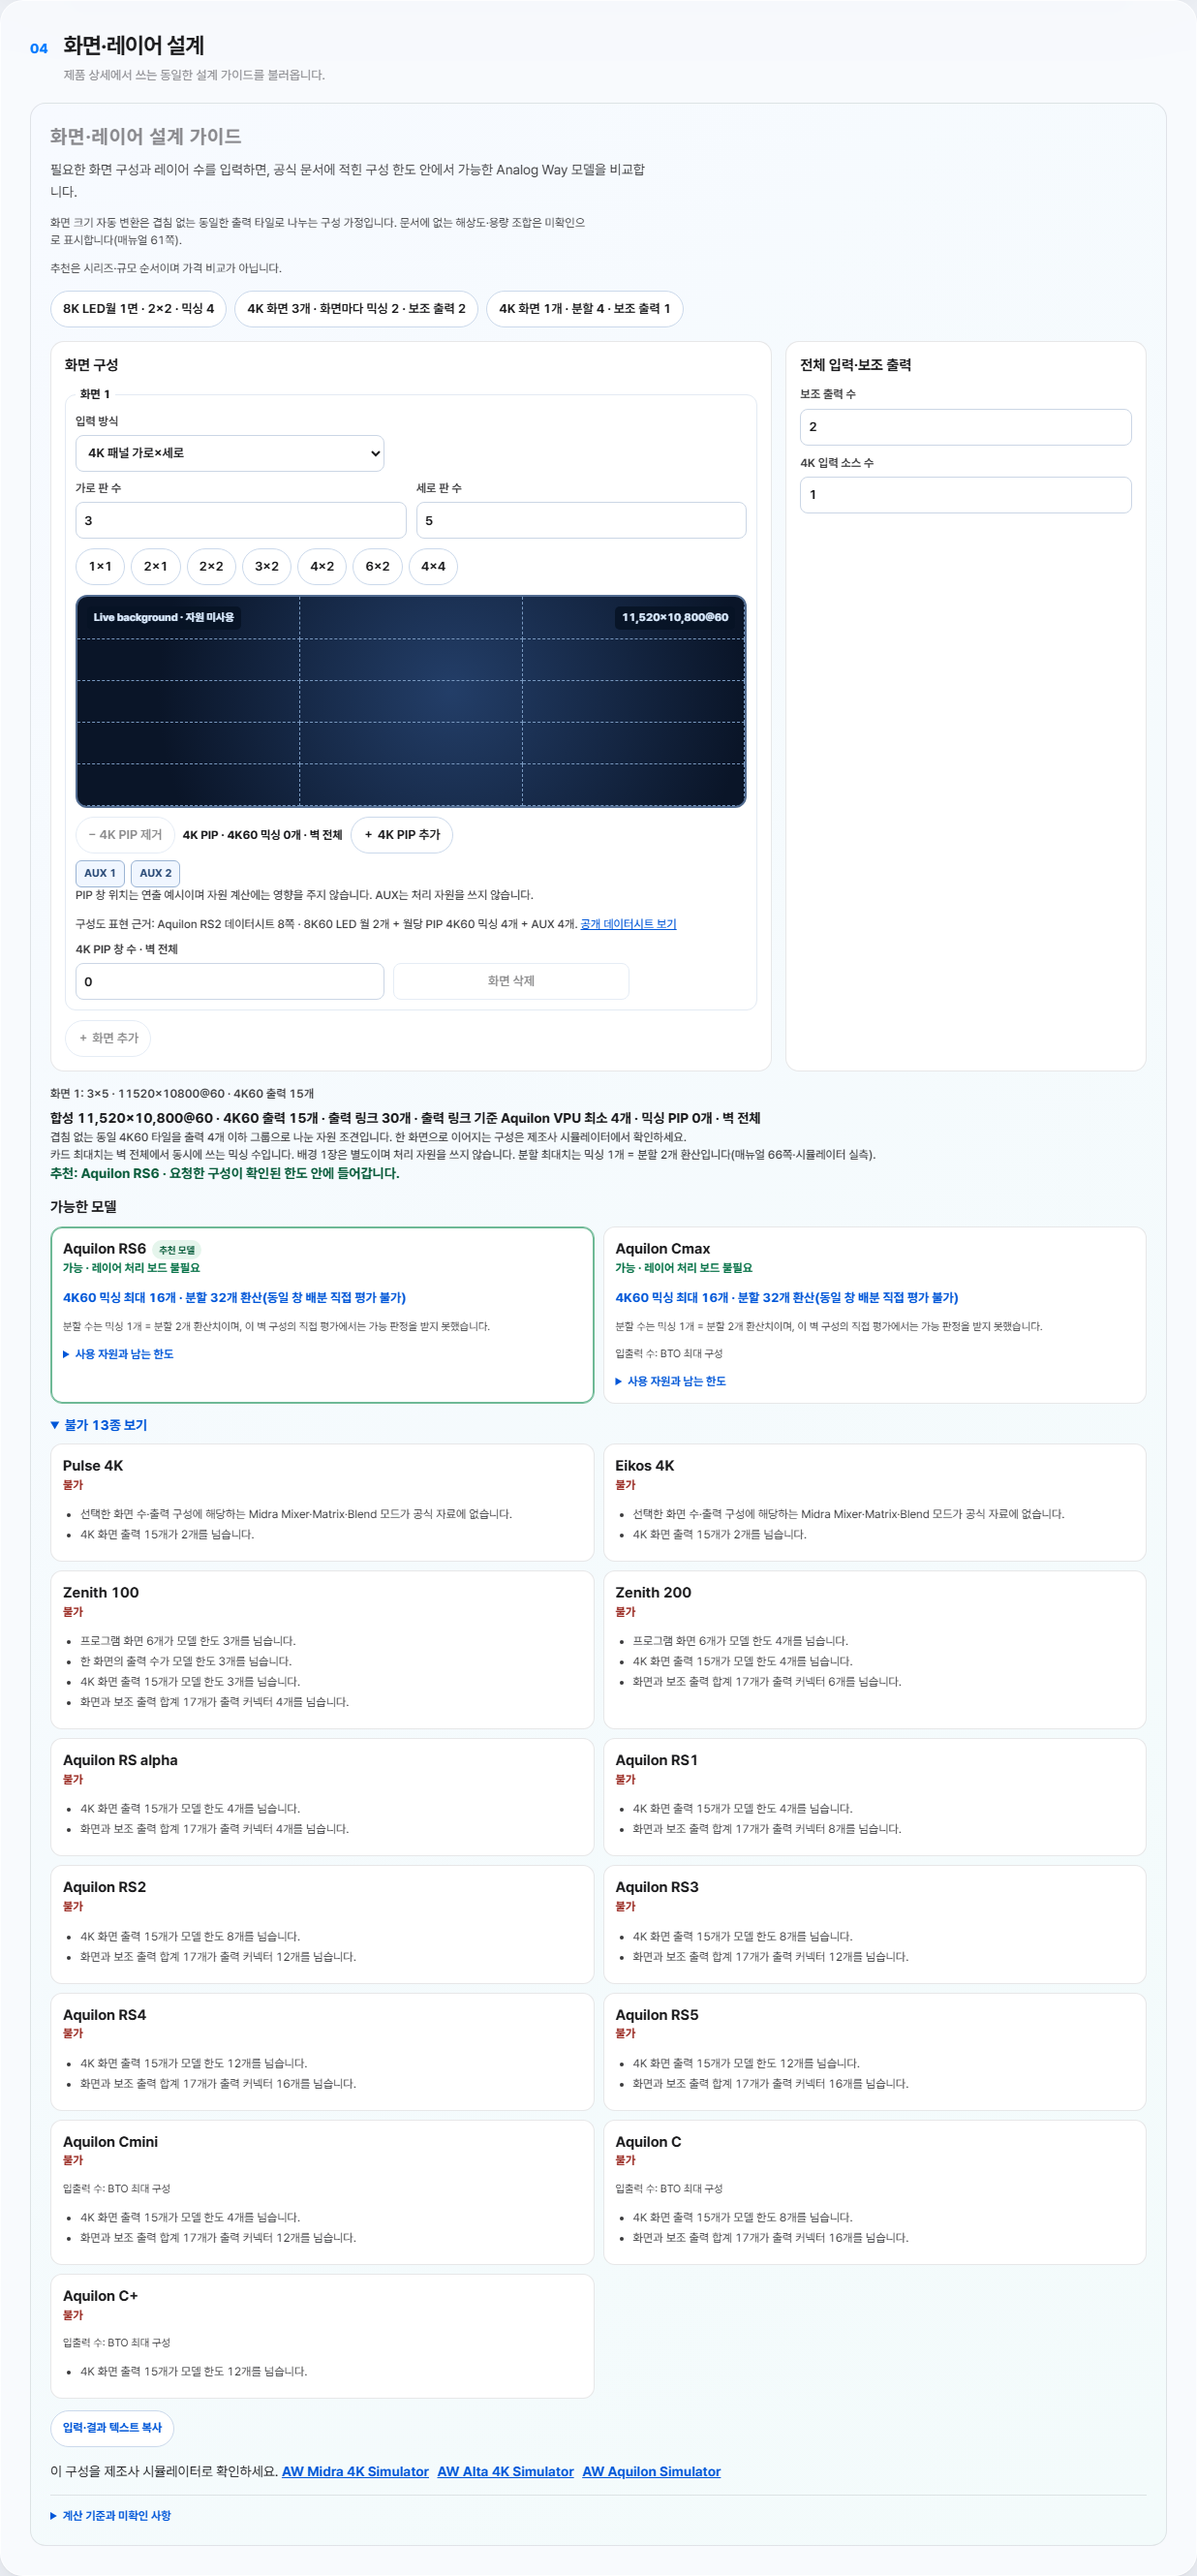
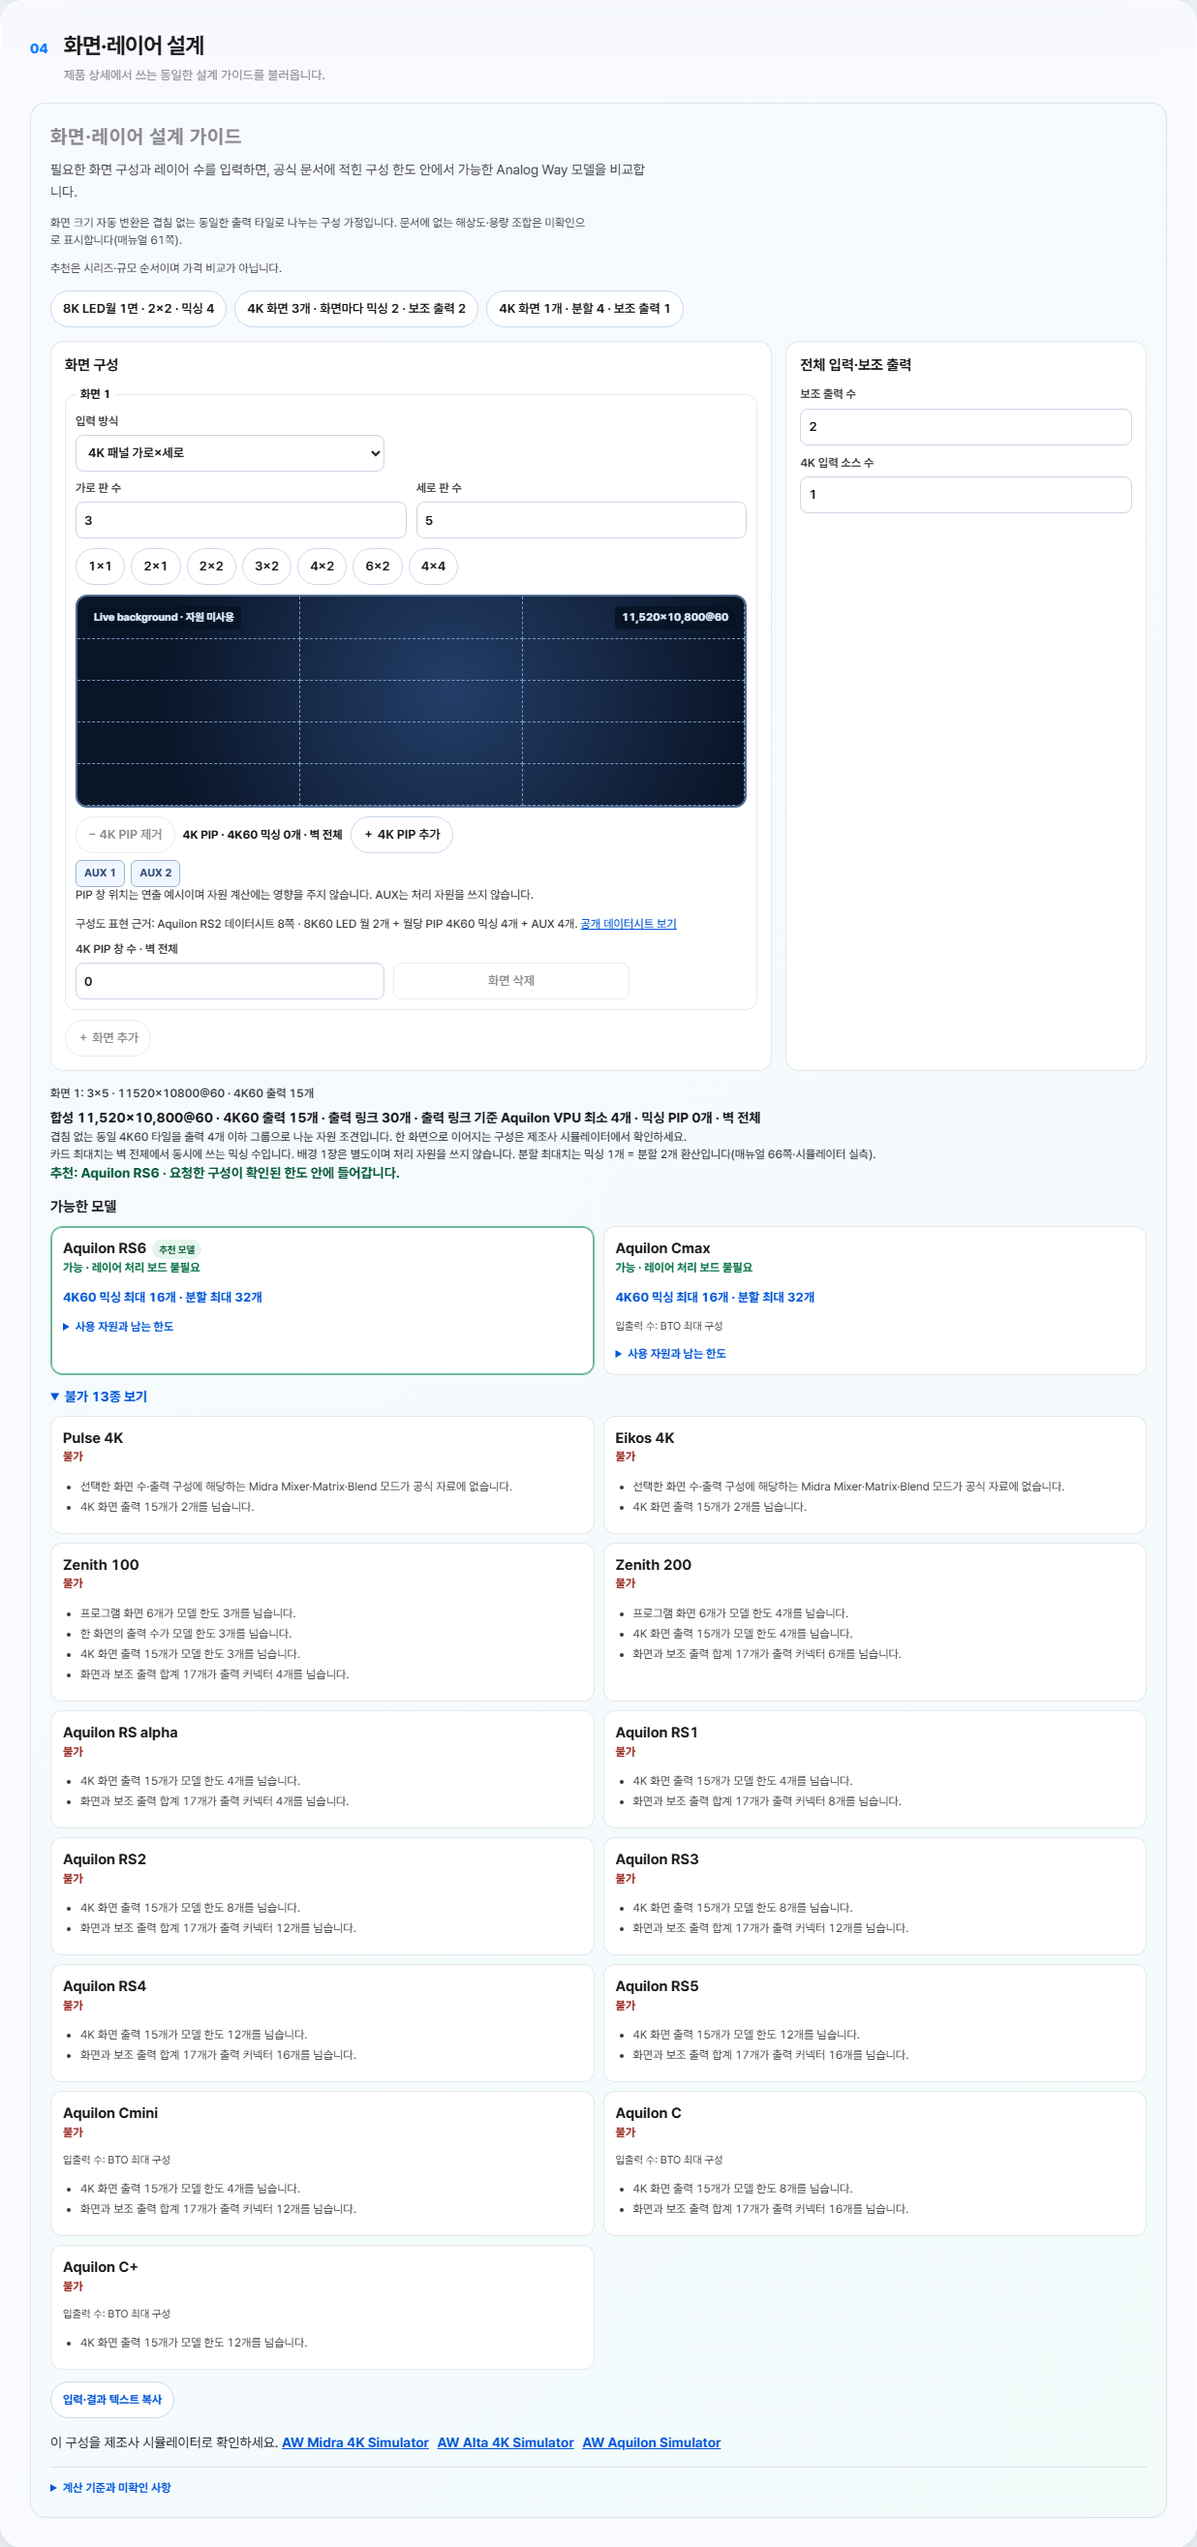
fix(analogway): verify split limits with paired allocation
Distribute split verification in two-layer pairs without changing wall mixing allocation. Confirm 3x5 and 5x3 RS6/Cmax split 32 directly and refresh review evidence.

diff --git a/Work/기록/W-20261017-008-Work-인계.md b/Work/기록/W-20261017-008-Work-인계.md
@@ -2,7 +2,7 @@
 
 - 명세: `Work/작업/W-20261017-008.md` (착수 때 `origin/main` `07d2b3b42b45548c3dd76796f22e3e0d09935b53`에서 다시 읽음)
 - 구현 브랜치: `codex/W-20261017-008-visual-sim`
-- 상태: [Draft PR #626](https://github.com/Seoulav/AV-Portal/pull/626) · Work 독립 검증 대기. 승인 전 병합하지 않음.
+- 상태: [PR #626](https://github.com/Seoulav/AV-Portal/pull/626) · Work 독립 재검증 차단 없음. 짝수 배분 최종 보완 뒤 CI·병합·배포 진행.
 
 ## 구현과 판정
 
@@ -10,17 +10,17 @@
 
 가로·세로 범위를 각 1~6으로 넓혔다. 5×1은 출력 `[4,1]`로 그룹화해 RS2 가능; 6×2는 `[4,4,4]`로 그룹화해 RS4·RS5·RS6·C+·Cmax 5종 가능이다. 12판 조견표에는 기존 3×4·4×3과 함께 6×2를 병기하고 세 구성이 같은 평가 결과임을 확인한다. 출력 그룹 9개인 5×5·5×6·6×5·6×6은 평가 함수의 화면 수 한도 8개를 넘는다고 평가 전에 명시하고 PIP 추가를 막는다.
 
-Work 독립 검증에서 카드 최대치가 기존 **그룹당 같은 수** 역산에 머물러 벽 전체 창 수 판정과 모순되는 것을 재현했다(6×2 RS6 카드 15개 vs 창 16개 가능). 카드 최대치도 벽 전체 창 수 `0~(출력 그룹 수×8)`을 차례로 기존 평가 함수에 넣어 구하도록 수정했다. 6×2 RS6와 3×5 Cmax는 각각 최대 16개이고 다음 17개는 불가여서 평가 상한 문구가 아니다. 분할 2배 환산은 벽 전체 입력 상한 및 동일 배분의 직접 평가와 대조한다. 3×5 Cmax는 믹싱 16개가 가능하지만 분할 32개 직접 평가는 VPU 5개 필요·보유 4개로 불가다. 이 수치는 `분할 32개 환산(동일 창 배분 직접 평가 불가)`로 표시해 확정 최대치처럼 읽히지 않게 했다. 기존 그룹당 레이어 입력의 판정과 W-007 시험은 유지했다.
+Work 독립 검증에서 카드 최대치가 기존 **그룹당 같은 수** 역산에 머물러 벽 전체 창 수 판정과 모순되는 것을 재현했다(6×2 RS6 카드 15개 vs 창 16개 가능). 카드 최대치도 벽 전체 창 수 `0~(출력 그룹 수×8)`을 차례로 기존 평가 함수에 넣어 구하도록 수정했다. 6×2 RS6와 3×5 Cmax는 각각 최대 16개이고 다음 17개는 불가여서 평가 상한 문구가 아니다. 분할 2배 환산은 벽 전체 입력 상한 및 직접 평가와 대조한다. 첫 시안은 분할 32개를 `[6,6,5,5,5,5]`로 배분해 홀수 묶음이 발생했고 불가로 보였다. Work 재검증에 따라 **분할 직접 확인에만** 2개 단위 `[6,6,6,6,4,4]`로 배분하자 3×5·5×3의 RS6·Cmax 모두 분할 32개가 가능하다. 따라서 카드는 `분할 최대 32개`로 표기한다. 믹싱 배분과 기존 그룹당 레이어 입력·W-007 시험은 유지했다.
 
 어두운 벽과 점선 패널 경계, `Live background`, 합성 해상도, 파란 계단식 PIP 창, AUX 상자를 그린다. 창 위치는 연출 예시이며 자원 계산에 쓰지 않는다. 화면에는 [공개 Aquilon RS2 데이터시트](https://dwn01.analogway.com/Site+Internet/Series/Aquilon/Products/Aquilon+RS2/Technical+Datasheet/Aquilon-RS2-datasheet-en-20260703.pdf) 8쪽의 8K60 LED 월 2개·월당 PIP 4개·AUX 4개 예시를 명시했다. 16개를 넘는 창은 첫 16개 그림과 나머지 개수 배지로 표시한다. 사용자 캡처는 커밋하지 않았다.
 
 ## 확인 자료
 
-- 4×2 PIP 8개 [1280px](W-20261017-008-screens/wall-4x2-1280.png) · [390px](W-20261017-008-screens/wall-4x2-390.png); 6×2·AUX 2개 [1280px](W-20261017-008-screens/wall-6x2-1280.png) · [390px](W-20261017-008-screens/wall-6x2-390.png); 5×5 출력 그룹 9개 사유 [1280px](W-20261017-008-screens/wall-5x5-invalid-1280.png) · [390px](W-20261017-008-screens/wall-5x5-invalid-390.png); 3×5 분할 환산 구분 [1280px](W-20261017-008-screens/wall-3x5-split-1280.png) · [390px](W-20261017-008-screens/wall-3x5-split-390.png); [브라우저 측정](W-20261017-008-screens/measurements.json).
+- 4×2 PIP 8개 [1280px](W-20261017-008-screens/wall-4x2-1280.png) · [390px](W-20261017-008-screens/wall-4x2-390.png); 6×2·AUX 2개 [1280px](W-20261017-008-screens/wall-6x2-1280.png) · [390px](W-20261017-008-screens/wall-6x2-390.png); 5×5 출력 그룹 9개 사유 [1280px](W-20261017-008-screens/wall-5x5-invalid-1280.png) · [390px](W-20261017-008-screens/wall-5x5-invalid-390.png); 3×5 분할 최대치 [1280px](W-20261017-008-screens/wall-3x5-split-1280.png) · [390px](W-20261017-008-screens/wall-3x5-split-390.png); [브라우저 측정](W-20261017-008-screens/measurements.json).
 - Chrome 1280·390px: 단추 8→9에서 RS2 가능→불가, 제거 뒤 8 복귀, 그룹 2개 입력 상한 16에서 추가 단추 비활성화, 수량 칸 3→창 3개, AUX 2칸, 가로 넘침 0.
 - 최신 main `443234b2` 통합 후 관련 W-006·007·008 검사 15/15 통과, 전체 검사 911건 중 910 pass·기존 skip 1·fail 0. `node beta/verify-pages.mjs`: 장비 289·상세 286·이미지 529·uploads 167. 검색 인덱스 `--check` 통과. 스냅샷·검색 인덱스·읽기용 카탈로그 재생성 결과 변경 0건. Chrome 1280·390px 가로 넘침 0.
 - 공개·prototype 공용 가이드 모듈과 스타일을 바이트 동일하게 유지했다. 타 제조사 평가식·제품 데이터·LED 구성기 저장소는 변경하지 않았다.
 
 ## 남은 절차
 
-Work가 수정된 카드 최대치·9개 그룹 사유와 1280·390px 화면을 다시 독립 검증한다. 이 PR은 그 전까지 Draft다. 승인·최신 main 통합·CI 초록 뒤 별도 병합·배포한다. 선행 W-008 병합 뒤에만 W-009 LED 구성기 연동에 착수한다.
+Work는 카드 최대치 모순 12건 해소·1~6 전수 불일치 0건과 그룹 9개 사유·입력 안내·회귀를 독립 확인하고, 분할 짝수 배분을 마지막 조건으로 병합을 지시했다. 이 보완은 관련 15건과 전체 911건(910 pass·기존 skip 1) 검사로 확인했다. 최종 커밋의 CI 초록 후 Ready 전환·병합·Pages·공개 확인을 마친다. 선행 W-008 병합 뒤에만 W-009 LED 구성기 연동에 착수한다.

diff --git a/Work/지시서.md b/Work/지시서.md
@@ -2,7 +2,7 @@
 
 ## 현재 작업 — W-20261017-008 Analog Way 시각 시뮬레이터
 
-상태: **REVIEW · Draft PR #626**. [READY 명세](작업/W-20261017-008.md)를 `origin/main` `07d2b3b42b45548c3dd76796f22e3e0d09935b53`에서 다시 읽고 `codex/W-20261017-008-visual-sim`에서 착수했다. W-007 병합 뒤 사용자·Work가 벽 전체 PIP 창 수 방식으로 명확히 승인했다. 기존 평가 함수·제품 JSON·LED 구성기 저장소는 변경하지 않는다.
+상태: **REVIEW · PR #626 Work 재검증 통과, 최종 CI·병합 진행**. [READY 명세](작업/W-20261017-008.md)를 `origin/main` `07d2b3b42b45548c3dd76796f22e3e0d09935b53`에서 다시 읽고 `codex/W-20261017-008-visual-sim`에서 착수했다. W-007 병합 뒤 사용자·Work가 벽 전체 PIP 창 수 방식으로 명확히 승인했다. 기존 평가 함수·제품 JSON·LED 구성기 저장소는 변경하지 않는다.
 
 - [x] W-007 병합·배포·공개 화면 확인. 1~6판 확대·5×1·6×2 경계와 벽 전체 PIP 8→9 전환을 기존 평가 함수로 대조.
 - [x] 4×2 PIP 8개는 그룹 `[4,4]`, 9개는 `[5,4]`로 전달하는 입력 어댑터와 단위 시험 RED→GREEN. 6×2는 공식 평가 함수의 5개 가능 모델과 일치.
@@ -11,9 +11,11 @@
 - [x] 최신 main `443234b2` 통합 뒤 스냅샷·검색 인덱스·읽기용 카탈로그 재생성(파생 변경 0). 전체 검사 908건 중 907 pass·기존 skip 1·fail 0, Pages 289/286/529/167, 검색 인덱스 검사와 1280·390px 가로 넘침 0 통과.
 - [x] [Draft PR #626](https://github.com/Seoulav/AV-Portal/pull/626)과 1280·390px 화면을 Work 독립 검증에 제출. 승인 전 병합 금지.
 - [x] Work 독립 검증의 병합 차단 1건을 재현하고 수정. 카드 최대치를 벽 전체 PIP 창 수 0~(출력 그룹×8)로 재평가해 6×2 RS6 16개(17개 불가), 3×5 Cmax 16개를 확인. 평가 상한 문구와 분할 환산 주석도 같은 기준으로 정리했다. 출력 그룹 9개는 평가 전 정확한 초과 사유를 보여 주고 PIP 추가를 막는다.
-- [x] 분할 환산 직접 대조에서 3×5 Cmax 믹싱 16개→분할 32개를 동일 창 배분으로 평가하면 불가임을 발견. `최대`라고 확정하지 않고 `32개 환산(동일 창 배분 직접 평가 불가)`로 구분했다. W-007 그룹당 기준 시험은 유지했다.
+- [x] 분할 환산 첫 대조에서는 레이어를 1개 단위 `[6,6,5,5,5,5]`로 배분해 3×5 Cmax 분할 32개가 불가로 보였다. 확정 최대치로 표시하지 않고 Work 재검증에 전달했다.
+- [x] Work 재검증에서 분할 레이어를 짝수 쌍으로 배분해야 함을 확인. 분할 직접 확인에만 `[6,6,6,6,4,4]` 배분을 적용해 3×5·5×3 RS6·Cmax의 분할 32개 가능을 재검증했다. 믹싱 배분은 불변.
 - [x] 1280·390px 새 캡처에서 카드 문구·9개 그룹 사유·가로 넘침 0 확인. PIP 창 폭과 간격을 조정해 1~8 라벨이 가리지 않도록 했다. 전체 검사 911건 중 910 pass·기존 skip 1·fail 0, Pages 289/286/529/167, 검색 인덱스 `--check` 통과. 최신 main `443234b2` 기준 파생 재생성 변경 0건.
-- [ ] Work 독립 검증·CI·최신 main 확인 후 승인된 경우에만 Ready 전환·병합·배포. 이어 W-009 별도 착수.
+- [x] Work 독립 재검증: 모순 12건 해소·1~6 전수 불일치 0건, 그룹 9개 사유·입력 안내·회귀 확인. 짝수 배분 소규모 보완 후 병합 지시 수령.
+- [ ] 최종 커밋 CI 초록 확인, Ready 전환·병합·Pages·공개 확인. 이어 W-009 별도 착수.
 
 ## 현재 작업 — W-20261017-007 Analog Way 타일별 최대 레이어 수
 
